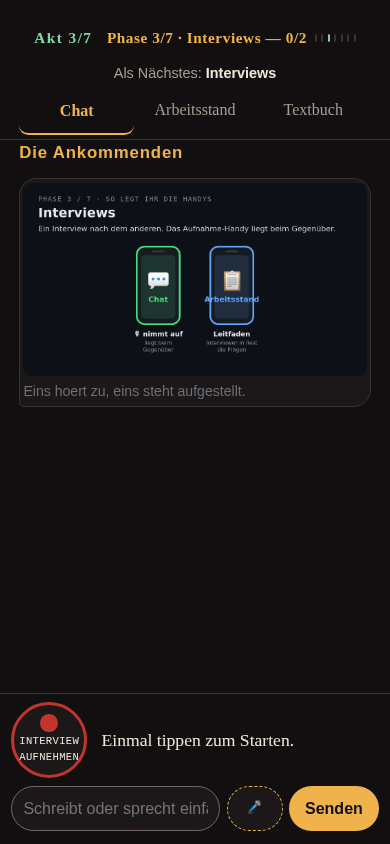
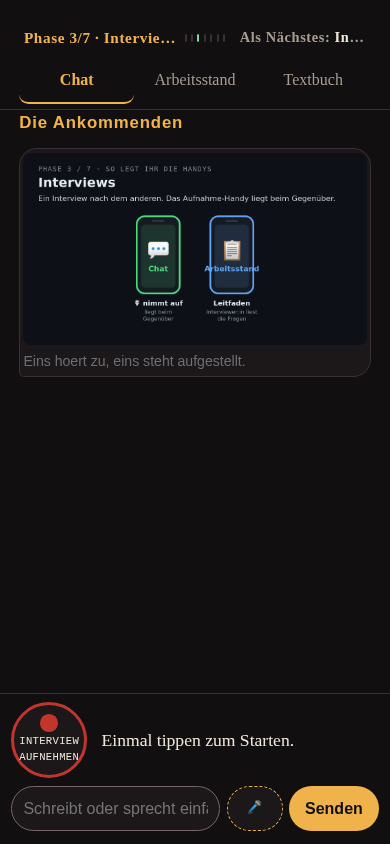
WIP Entwurf c (Robo-Sicherung beim Parken 05.10. 03:30)

Changed region(s): [[0.0308, 0.0308, 0.8923, 0.4929], [0.7385, 0.0924, 0.8923, 0.154], [0.9231, 0.4313, 0.9538, 0.4621]]

diff --git a/docs/ux-padua/entwurf-c/mache_screenshots.py b/docs/ux-padua/entwurf-c/mache_screenshots.py
@@ -1,0 +1,153 @@
+#!/usr/bin/env python3
+"""Vergleichs-Screenshots Entwurf b (Vorgabe) vs. c (dunkel-violett/Salbei),
+Karte t_1599392a (05.10.2026).
+
+Kein Test, laeuft nie automatisch, aendert keine Betriebsdaten: eine
+Wegwerf-Datenbank unter ``/tmp``, ein echter Webserver **im selben
+Prozess** (``interview_theater.web.baue_server``, Port 0), damit
+``IT_UX_ENTWURF`` zwischen den beiden Bildserien ohne Neustart umschaltet
+(``web_gestalt.entwurf()`` liest die Umgebungsvariable bei jedem Aufruf neu).
+
+Alle Inhalte (Begriffe, Chatzeilen) sind frei erfunden -- keine echten
+Namen, keine Sitzungsdaten, kein Token/keine URL im Bild (Viewport-
+Screenshot, keine Adressleiste).
+
+Aufruf (Playwright aus dem Wegwerf-venv, siehe ``tests/e2e/README.md``)::
+
+    python3.11 docs/ux-padua/entwurf-c/mache_screenshots.py
+"""
+
+import json
+import os
+import sys
+import threading
+import time
+from pathlib import Path
+
+HIER = Path(__file__).resolve().parent
+WURZEL = HIER.parent.parent.parent
+sys.path.insert(0, str(WURZEL))
+
+DB_PFAD = "/tmp/it-entwurf-c-screenshots.db"
+CHAT_P1 = 7_000_000_000_911
+CHAT_P2 = 7_000_000_000_912
+
+HANDY = {"width": 390, "height": 844}
+LAPTOP = {"width": 1366, "height": 900}
+
+os.environ.setdefault("IT_WORKSHOP", "padua-2026")
+os.environ.setdefault("IT_DB", DB_PFAD)
+
+from interview_theater import db, repo, web, web_gestalt  # noqa: E402
+
+BEGRIFFE = [
+    {"begriff": "Ankommen", "status": "aktiv", "zustimmung": 1, "nennungen": 3},
+    {"begriff": "Nachtschicht", "status": "aktiv", "zustimmung": 1, "nennungen": 2},
+    {"begriff": "Koffer", "status": "aktiv", "zustimmung": 0, "nennungen": 1},
+    {"begriff": "Warten", "status": "aktiv", "zustimmung": 1, "nennungen": 2,
+     "vorgaenger": ["Stillstand"]},
+    {"begriff": "Heimweh", "status": "aktiv", "zustimmung": 0, "nennungen": 1},
+    {"begriff": "Laerm", "status": "verworfen", "zustimmung": 0, "nennungen": 1},
+]
+
+
+def _baue_datenbank() -> tuple[str, str]:
+    for endung in ("", "-wal", "-shm"):
+        Path(DB_PFAD + endung).unlink(missing_ok=True)
+    conn = db.verbinde(DB_PFAD)
+    db.initialisiere(conn)
+
+    repo.sichere_gruppe(conn, CHAT_P1, "demobot", "Die Ankommenden")
+    repo.setze_gruppe_kanal(conn, CHAT_P1, "web")
+    repo.setze_phase(conn, CHAT_P1, 1)
+    repo.merke_nachricht(
+        conn, CHAT_P1, 1, "demobot", 1, "text",
+        "Willkommen! Sammelt erstmal frei Begriffe zu eurem Thema -- "
+        "ich hoere im Hintergrund mit und baue daraus ein Begriffsboard.",
+        repo._jetzt(),
+    )
+    repo.merke_nachricht(
+        conn, CHAT_P1, 2, "Rosa", 0, "text",
+        "Ankommen in einer neuen Stadt, mitten in der Nacht.",
+        repo._jetzt(),
+    )
+    repo.merke_nachricht(
+        conn, CHAT_P1, 3, "Jonas", 0, "text",
+        "Und dieses Gefuehl, den Koffer nicht wiederzufinden.",
+        repo._jetzt(),
+    )
+    repo.lege_begriffsboard_an(conn, CHAT_P1, json.dumps(BEGRIFFE), "demo", 0)
+    token_p1 = repo.stelle_web_token_sicher(conn, CHAT_P1)
+
+    repo.sichere_gruppe(conn, CHAT_P2, "demobot", "Die Ankommenden")
+    repo.setze_gruppe_kanal(conn, CHAT_P2, "web")
+    repo.setze_arbeitsstand(conn, CHAT_P2, "begriffe", "Ankommen, Nachtschicht, Koffer, Warten")
+    repo.setze_phase(conn, CHAT_P2, 2)
+    repo.merke_nachricht(
+        conn, CHAT_P2, 1, "demobot", 1, "text",
+        "Aus euren Begriffen moegliche Fragen fuer das Interview -- "
+        "waehlt drei davon aus, die euch am meisten interessieren.",
+        repo._jetzt(),
+    )
+    repo.merke_nachricht(
+        conn, CHAT_P2, 2, "Rosa", 0, "text",
+        "Mir gefaellt die Frage nach dem ersten Moment in der neuen Stadt.",
+        repo._jetzt(),
+    )
+    token_p2 = repo.stelle_web_token_sicher(conn, CHAT_P2)
+
+    conn.commit()
+    conn.close()
+    return token_p1, token_p2
+
+
+def main() -> int:
+    from playwright.sync_api import sync_playwright
+
+    token_p1, token_p2 = _baue_datenbank()
+
+    server = web.baue_server(DB_PFAD, bind="127.0.0.1:0", praefix="")
+    faden = threading.Thread(target=server.serve_forever, daemon=True)
+    faden.start()
+    basis = f"http://127.0.0.1:{server.server_address[1]}"
+
+    ZIELE = (
+        ("phase1-chat", f"{basis}/g/{token_p1}#chat", "#tab-chat:not([hidden])"),
+        ("phase1-cothinker", f"{basis}/g/{token_p1}#buehne", "#tab-buehne:not([hidden])"),
+        ("phase2-chat", f"{basis}/g/{token_p2}#chat", "#tab-chat:not([hidden])"),
+    )
+
+    try:
+        with sync_playwright() as p:
+            browser = p.chromium.launch()
+            try:
+                for entwurf in ("b", "c"):
+                    os.environ["IT_UX_ENTWURF"] = entwurf
+                    assert web_gestalt.entwurf() == entwurf
+                    for geraet, viewport in (("handy", HANDY), ("laptop", LAPTOP)):
+                        kontext = browser.new_context(
+                            viewport=viewport, is_mobile=(geraet == "handy"),
+                        )
+                        for name, url, warte_auf in ZIELE:
+                            seite = kontext.new_page()
+                            seite.set_default_timeout(8000)
+                            seite.goto(url)
+                            seite.wait_for_selector(warte_auf)
+                            seite.wait_for_timeout(400)
+                            ziel = HIER / f"{name}-{geraet}-{entwurf}.png"
+                            seite.screenshot(path=str(ziel))
+                            print(ziel.name)
+                            seite.close()
+                        kontext.close()
+            finally:
+                browser.close()
+    finally:
+        os.environ.pop("IT_UX_ENTWURF", None)
+        server.shutdown()
+        faden.join(timeout=5)
+
+    return 0
+
+
+if __name__ == "__main__":
+    sys.exit(main())
